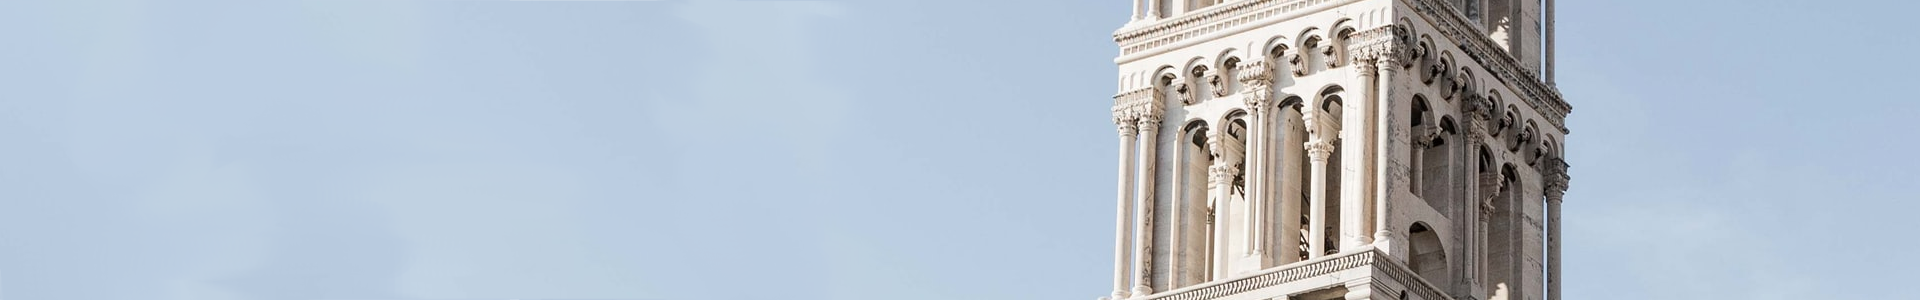
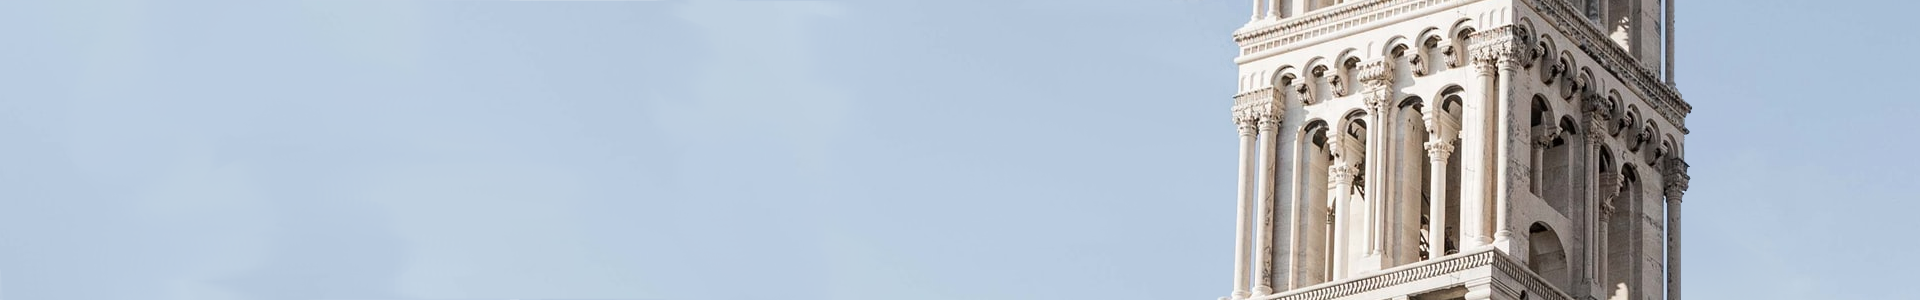
update the header background image

Changed region(s): [[0.5625, 0.0, 0.9062, 1.0]]

diff --git a/src/components/Header/BackgroundImage.jsx b/src/components/Header/BackgroundImage.jsx
@@ -4,7 +4,7 @@ import { device } from '../styles';
 const BackgroundImage = styled.div`
   background-image:  ${props => `url(${props.url})`};
   background-position: top 50% right 0%;
-  background-size: 1600px 300px;
+  background-size: 1920px 300px;
   height: ${props =>  `${props.height || 300}px`};
   left: 0;
   opacity: 0.9;
